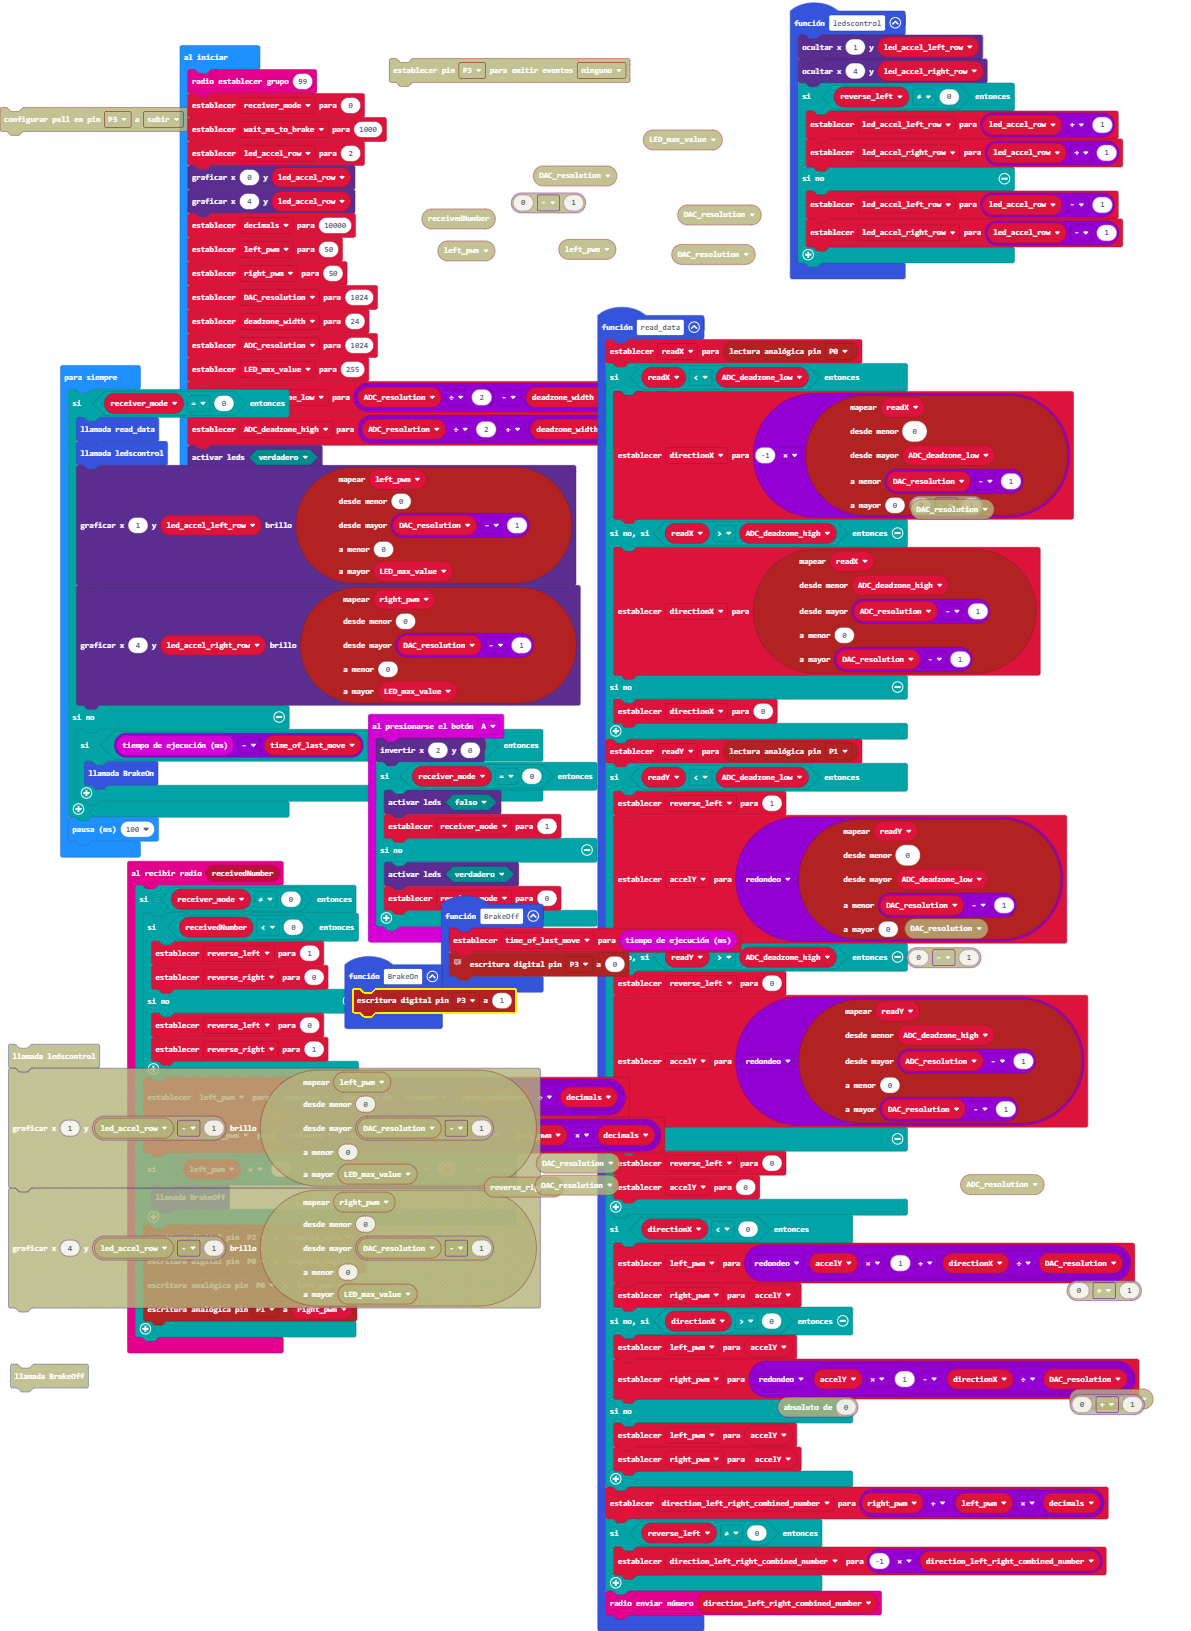
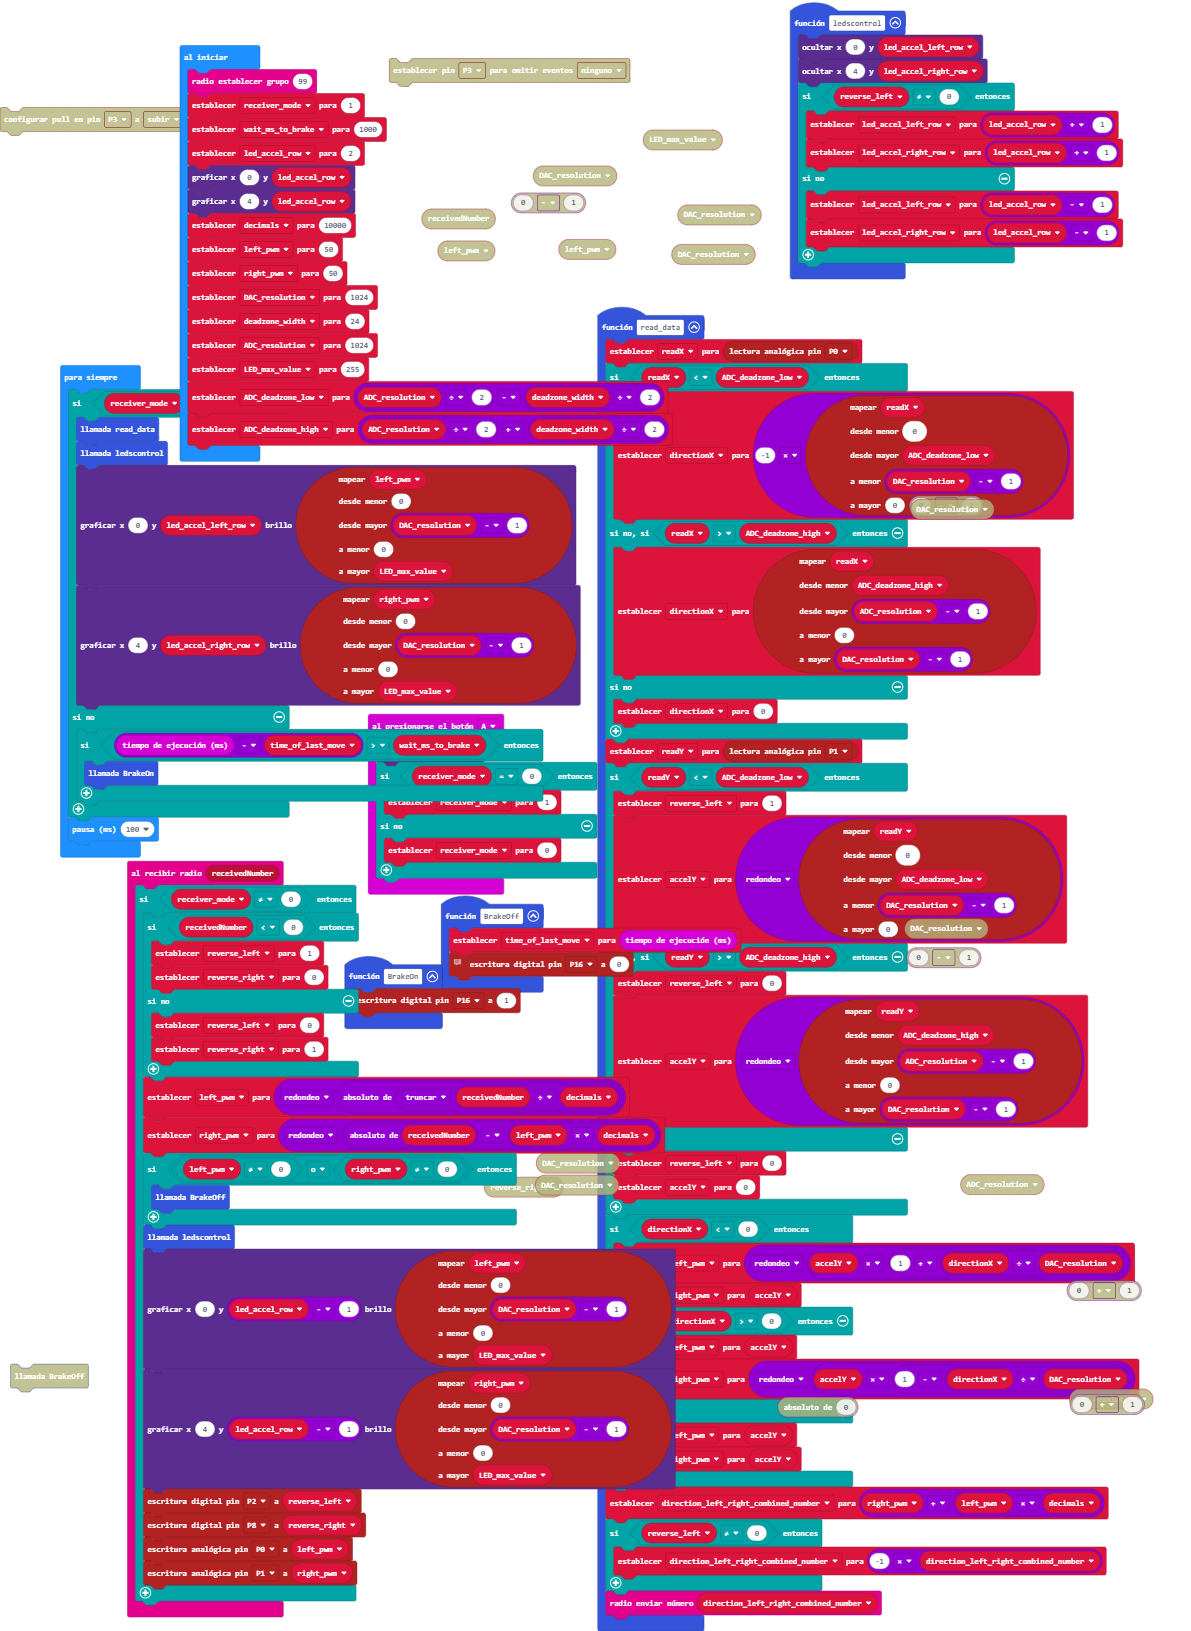
break on p16

diff --git a/main.ts b/main.ts
@@ -1,7 +1,7 @@
 function BrakeOff () {
     time_of_last_move = input.runningTime()
     // Brake off
-    pins.digitalWritePin(DigitalPin.P3, 0)
+    pins.digitalWritePin(DigitalPin.P16, 0)
 }
 radio.onReceivedNumber(function (receivedNumber) {
     if (receiver_mode != 0) {
@@ -17,6 +17,21 @@ radio.onReceivedNumber(function (receivedNumber) {
         if (left_pwm != 0 || right_pwm != 0) {
             BrakeOff()
         }
+        ledscontrol()
+        led.plotBrightness(0, led_accel_row - 1, pins.map(
+        left_pwm,
+        0,
+        DAC_resolution - 1,
+        0,
+        LED_max_value
+        ))
+        led.plotBrightness(4, led_accel_row - 1, pins.map(
+        right_pwm,
+        0,
+        DAC_resolution - 1,
+        0,
+        LED_max_value
+        ))
         pins.digitalWritePin(DigitalPin.P2, reverse_left)
         pins.digitalWritePin(DigitalPin.P8, reverse_right)
         pins.analogWritePin(AnalogPin.P0, left_pwm)
@@ -26,10 +41,8 @@ radio.onReceivedNumber(function (receivedNumber) {
 input.onButtonPressed(Button.A, function () {
     led.toggle(2, 0)
     if (receiver_mode == 0) {
-        led.enable(false)
         receiver_mode = 1
     } else {
-        led.enable(true)
         receiver_mode = 0
     }
 })
@@ -94,10 +107,10 @@ function read_data () {
     radio.sendNumber(direction_left_right_combined_number)
 }
 function BrakeOn () {
-    pins.digitalWritePin(DigitalPin.P3, 1)
+    pins.digitalWritePin(DigitalPin.P16, 1)
 }
 function ledscontrol () {
-    led.unplot(1, led_accel_left_row)
+    led.unplot(0, led_accel_left_row)
     led.unplot(4, led_accel_right_row)
     if (reverse_left != 0) {
         led_accel_left_row = led_accel_row + 1
@@ -119,6 +132,7 @@ let reverse_left = 0
 let time_of_last_move = 0
 let ADC_deadzone_high = 0
 let ADC_deadzone_low = 0
+let LED_max_value = 0
 let ADC_resolution = 0
 let DAC_resolution = 0
 let right_pwm = 0
@@ -127,7 +141,7 @@ let decimals = 0
 let led_accel_row = 0
 let receiver_mode = 0
 radio.setGroup(99)
-receiver_mode = 0
+receiver_mode = 1
 let wait_ms_to_brake = 1000
 led_accel_row = 2
 led.plot(0, led_accel_row)
@@ -138,15 +152,14 @@ right_pwm = 50
 DAC_resolution = 1024
 let deadzone_width = 24
 ADC_resolution = 1024
-let LED_max_value = 255
+LED_max_value = 255
 ADC_deadzone_low = ADC_resolution / 2 - deadzone_width / 2
 ADC_deadzone_high = ADC_resolution / 2 + deadzone_width / 2
-led.enable(true)
 basic.forever(function () {
     if (receiver_mode == 0) {
         read_data()
         ledscontrol()
-        led.plotBrightness(1, led_accel_left_row, pins.map(
+        led.plotBrightness(0, led_accel_left_row, pins.map(
         left_pwm,
         0,
         DAC_resolution - 1,
